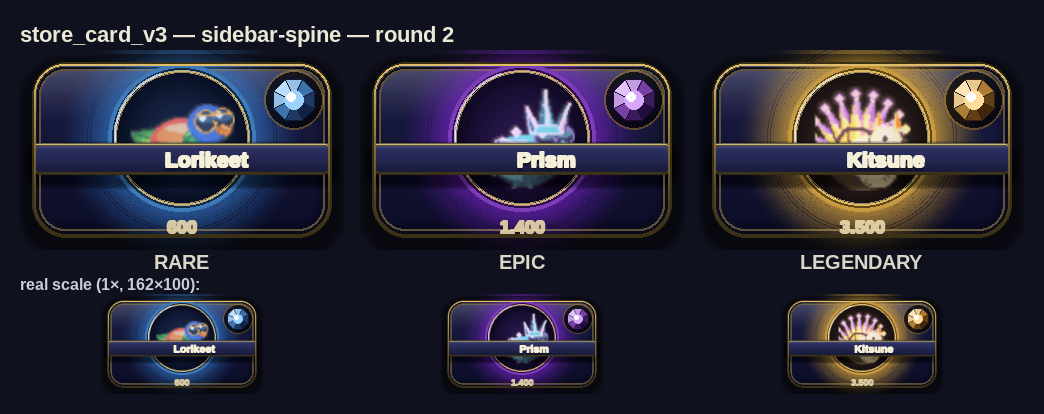
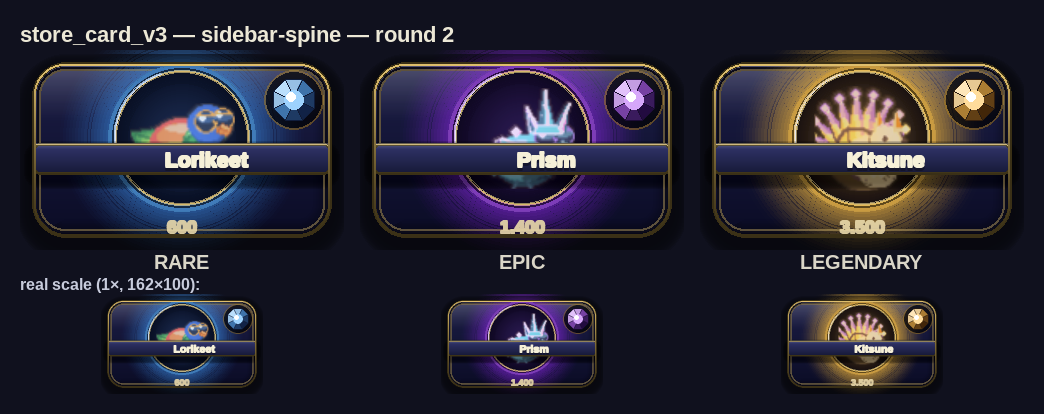
store_card_v3 sidebar-spine r2: disc tint fix, price legibility, gutter gold
Claude-Session: https://claude.ai/code/session_011726ot8uBSmurQVaEkGY6K

Changed region(s): [[0.7663, 0.2319, 0.8889, 0.3478], [0.7969, 0.7536, 0.8582, 0.8406]]

diff --git a/tools/_store_card_v3_sidebar_spine_r2.py b/tools/_store_card_v3_sidebar_spine_r2.py
@@ -121,6 +121,14 @@ def render_sidebar_spine(sid, pal, price, name, tier):
     rad = m(CARD_RAD)
     body_y = m(_INSET)
     cx, cy = rect.centerx, body_y + m(38)
+    # The kitsune (LEGENDARY) skin is intrinsically near-white at the disc centre
+    # (~255,255,242), so base=44 can't pull its centre under the ≤240 ceiling
+    # without a global bump that would GREY the warm RARE / cool EPIC centres.
+    # Because the legendary tint is warm gold over white it stays richly gold —
+    # never grey — even at a strong centre pull, so LEGENDARY alone gets the
+    # heavier base while RARE/EPIC keep the specified 44 and their skin colour.
+    is_leg = tier == "LEGENDARY"
+    disc_base = 115 if is_leg else 44
 
     # 1. depth: soft multi-layer drop shadow (top-left light → offset down).
     drop_shadow(big, rect, rad, blur=m(8), alpha=160, dy=m(4))
@@ -145,7 +153,7 @@ def render_sidebar_spine(sid, pal, price, name, tier):
     blit_thumb(big, sid, cx, cy, m(R) * 1.5)
 
     # 7. tier tint INSIDE the disc — now reaching the CENTRE so no white blowout.
-    _disc_tint(big, cx, cy, m(R), pal["glow"], pal["deep"])
+    _disc_tint(big, cx, cy, m(R), pal["glow"], pal["deep"], base=disc_base)
 
     # 8. glass dome overlay (crescent sheen + gold bezel) on top of the tint.
     cabochon_glass(big, cx, cy, m(R), tint=pal["gem"])
@@ -157,7 +165,6 @@ def render_sidebar_spine(sid, pal, price, name, tier):
     #     LEGENDARY glow input runs muddy (its low-value amber greys in the
     #     feather), so LEGENDARY gets a saturated, cooler gold + a hotter peak so
     #     the gutter reads unmistakably GOLD, not brown.
-    is_leg = tier == "LEGENDARY"
     gutter_col = (240, 182, 60) if is_leg else pal["glow"]
     gutter_peak = 115 if is_leg else 90
     _gutter_aura(big, cx, cy, m(R), m(R + 28), gutter_col, peak=gutter_peak,
